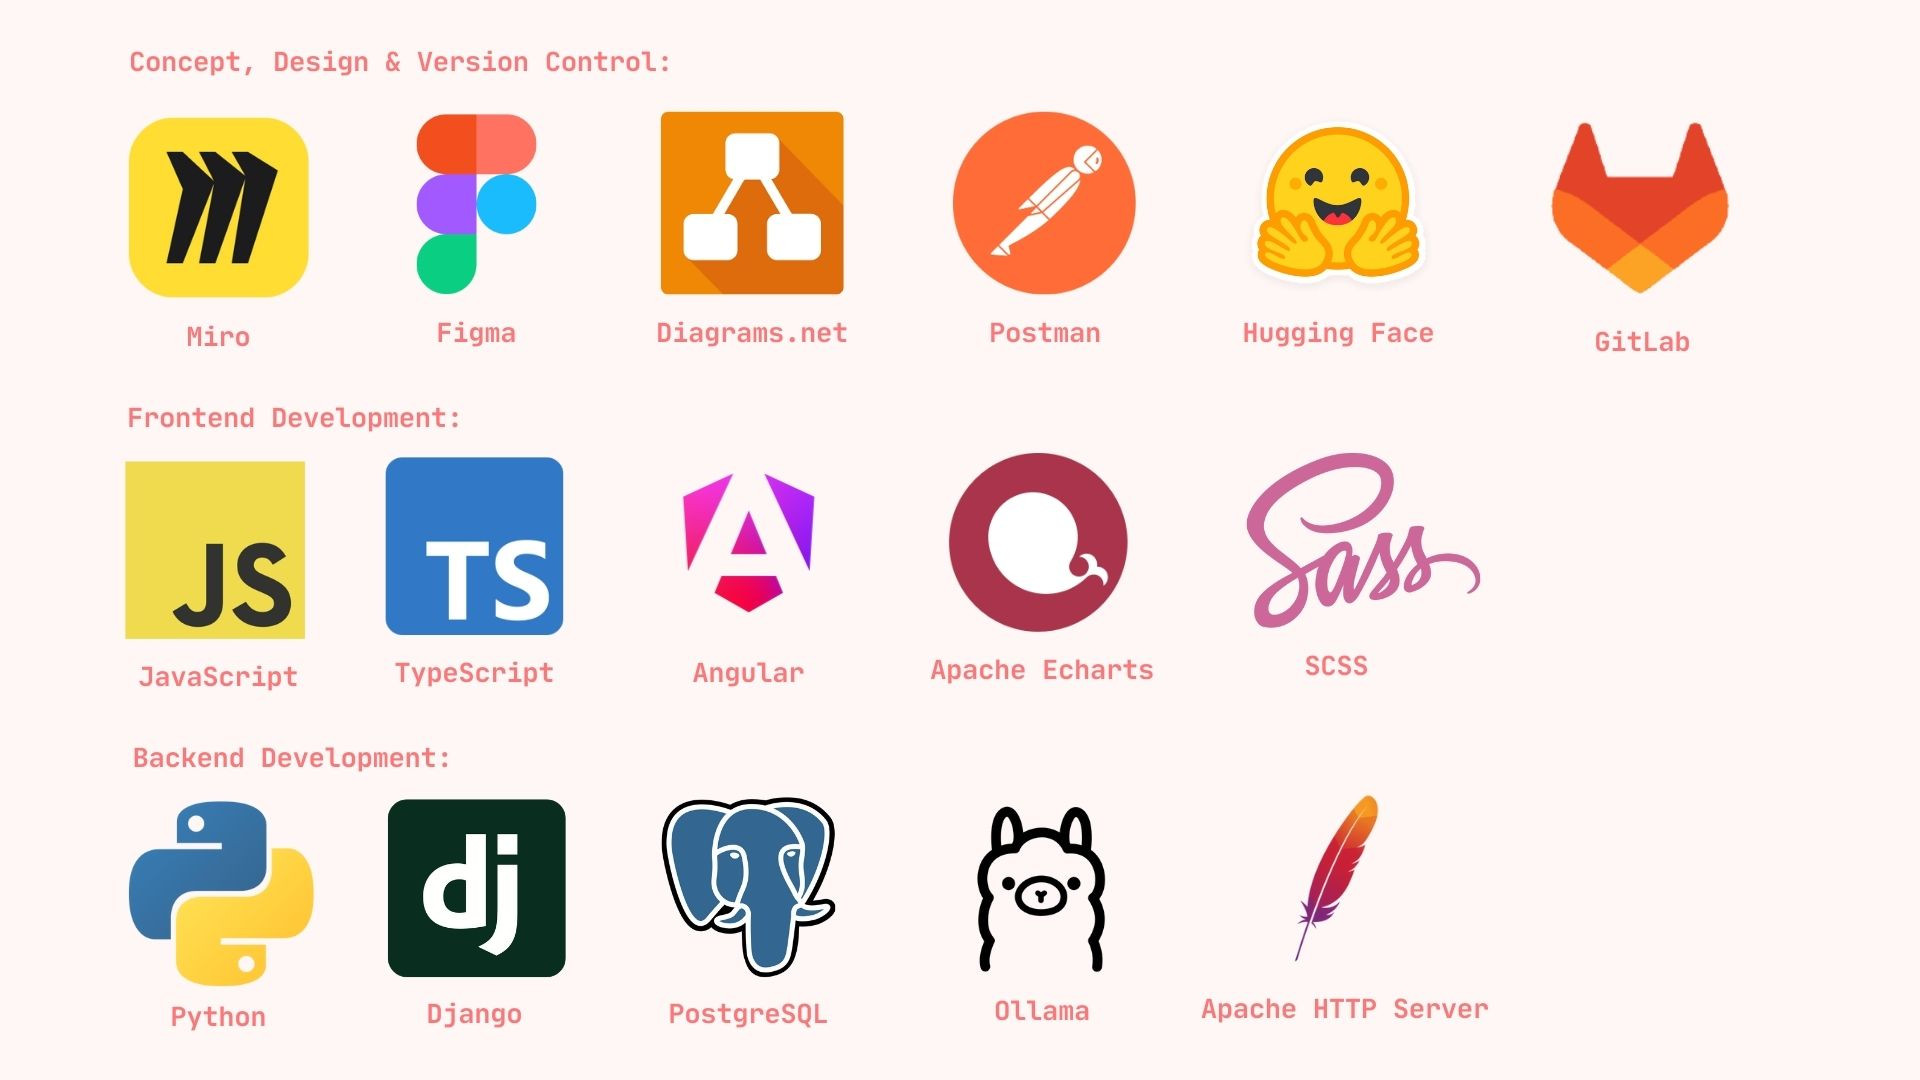
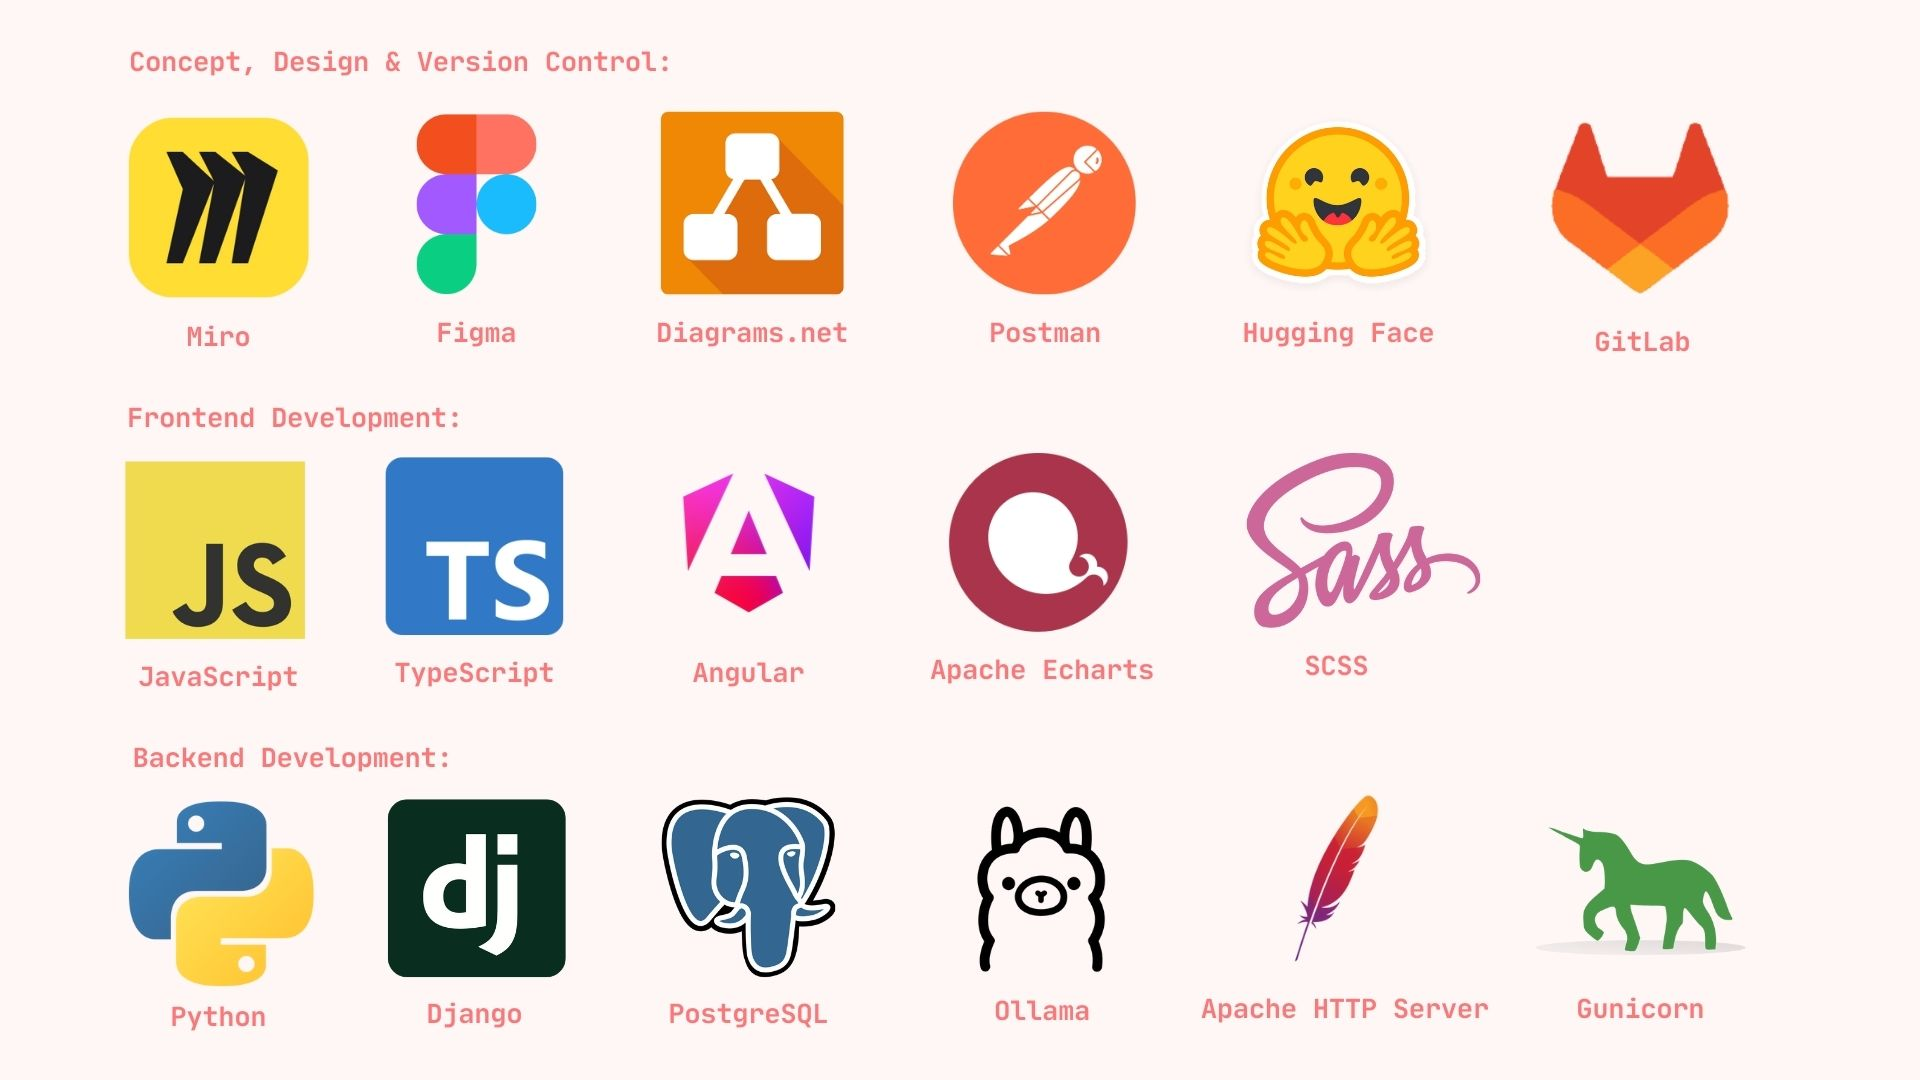
Updated techstack image and text

Changed region(s): [[0.8125, 0.7639, 0.9062, 0.8861], [0.8125, 0.9167, 0.875, 0.9472]]

diff --git a/content/ws25/master/m4-bundesecho/tools.md b/content/ws25/master/m4-bundesecho/tools.md
@@ -7,31 +7,66 @@ draft = false
 {{<image src="techstack.jpg" alt="BundesEcho Tech Stack">}}
 {{<section title="Concept, Design & Version Control">}}
 
-- **[Miro](https://miro.com/)** was used for the initial brainstorming sessions. It allowed the team to collaboratively visualize ideas and document key decisions.
-- **[Figma](https://figma.com/)** was used to create the UI component library, the style guide, and the final high-fidelity design of the BundesEcho user interface.
-- **[Diagrams.net](https://app.diagrams.net/)** was utilized to design the entity-relationship diagram for the database schema.
-- **[Postman](https://www.postman.com/)** served as our primary tool for testing and debugging APIs while the backend server and database were under development.
-- **[Huggingface](https://huggingface.co/)** was used for research and tests of various NLP models for the augmentation of the Q&A archive and RAG.
-- **[GitLab](https://gitlab.com)** served as the central platform for version control, hosting our frontend and backend repositories. We utilized its integrated Kanban board to manage tickets, assign tasks, and track development progress.
+**[Miro](https://miro.com/)**<br>
+Miro was used for the initial brainstorming sessions. It allowed the team to collaboratively visualize ideas and document key decisions.
+
+**[Figma](https://figma.com/)**<br>
+Figma was used to create the UI component library, the style guide, and the final high-fidelity design of the BundesEcho user interface.
+
+**[Diagrams.net](https://app.diagrams.net/)**<br>
+We utilized this tool to design the entity-relationship diagram for the database schema.
+
+**[Postman](https://www.postman.com/)**<br> 
+Postman served as our primary tool for testing and debugging APIs while the backend server and database were under development.
+
+**[Huggingface](https://huggingface.co/)**<br> 
+Huggingface was used for research and tests of various NLP models for the augmentation of the Q&A archive and RAG.
+
+**[GitLab](https://gitlab.com)**<br>
+GitLab served as the central platform for version control, hosting our frontend and backend repositories. We utilized its integrated Kanban board to manage tickets, assign tasks, and track development progress.
 
 {{</section>}}
 
 {{<section title="Frontend Development">}}
 
-- **[JavaScript](https://developer.mozilla.org/en-US/docs/Web/JavaScript)** is the fundamental scripting language used to drive interactivity and logic throughout the frontend application.
-- **[TypeScript](https://typescriptlang.org)** is a typed superset of JavaScript that ensures code reliability. We used its static typing and tooling to maintain a scalable codebase and prevent runtime errors.
-- **[Angular](https://angular.io)** was our chosen component-based framework. It handles the single-page application (SPA) architecture, routing, and state management for a seamless user experience.
-- **[Apache ECharts](https://echarts.apache.org)** is the engine behind our data visualizations. We implemented Sankey diagrams, Gauge charts, Pie charts, network Graphs, and PictorialBars to make complex political data digestible.
-- **[SCSS](https://sass-lang.com)** is an extension of CSS that allowed us to use variables, nesting, and mixins, ensuring a consistent and modular design system across the platform.
+**[JavaScript](https://developer.mozilla.org/en-US/docs/Web/JavaScript)**<br> 
+JavaScript is the fundamental scripting language used to drive interactivity and logic throughout the frontend application.
+
+**[TypeScript](https://typescriptlang.org)**<br>
+TypeScript is a typed superset of JavaScript that ensures code reliability. We used its static typing and tooling to maintain a scalable codebase and prevent runtime errors.
+
+**[Angular](https://angular.io)**<br> 
+Angular was our chosen component-based framework. It handles the single-page application (SPA) architecture, routing, and state management for a seamless user experience.
+
+**[Apache ECharts](https://echarts.apache.org)**<br> 
+ECharts is the engine behind our data visualizations. We implemented Sankey diagrams, Gauge charts, Pie charts, network Graphs, and PictorialBars to make complex political data digestible.
+
+**[SCSS](https://sass-lang.com)**<br> 
+SCSSis an extension of CSS that allowed us to use variables, nesting, and mixins, ensuring a consistent and modular design system across the platform.
 {{</section>}}
 
 {{<section title="Backend Development">}}
 
-- **[Python](https://python.org)** was used for all backend logic, data processing pipelines, and AI integration.
-- **[Django](https://djangoproject.com)** was our web framework of choice. It provides the REST API structure, manages the database, and serves as the bridge between the client and our AI services.
-- **[PostgreSQL with pgvector extension](https://github.com/pgvector/pgvector)** was selected to store and query high-dimensional embeddings for semantic search.
-- **[Ollama](https://ollama.ai)**, hosted on the HTW ML server, served our local LLMs, handling inference for augmentation and summarization.
-- **[Llama 3.1 (70B)](https://ollama.com/library/llama3.1:70b)** state-of-the-art LLM used for data augmentation and RAG summarization. We selected the 70B parameter model for its superior nuance in understanding political context.
-- **[nomic-embed-text-v1.5](https://huggingface.co/nomic-ai/nomic-embed-text-v1.5)** is a high-performance embedding model that converts Q&A text into 768-dimensional vectors. This model was selected for its high accuracy and speed, enabling efficient semantic search and vector-based similarity analysis.
-- **[Apache HTTP Server](https://httpd.apache.org)** is the configured backend server used to host the BundesEcho backend application.
+**[Python](https://python.org)**<br>
+Pythonwas used for all backend logic, data processing pipelines, and AI integration.
+
+**[Django](https://djangoproject.com)**<br> 
+Django was our web framework of choice. It provides the REST API structure, manages the database, and serves as the bridge between the client and our AI services.
+**[PostgreSQL with pgvector extension](https://github.com/pgvector/pgvector)**<br> 
+PostgreSQL combined with the pgvector extension was selected to store and query high-dimensional embeddings for semantic search.
+
+**[Ollama](https://ollama.ai)**<br> 
+Ollama-client, hosted on the HTW ML server, served our local LLMs, handling inference for augmentation and summarization.
+
+**[Llama 3.1 (70B)](https://ollama.com/library/llama3.1:70b)**<br> 
+This is the state-of-the-art LLM used for data augmentation and RAG summarization. We selected the 70B parameter model for its superior nuance in understanding political context.
+
+**[nomic-embed-text-v1.5](https://huggingface.co/nomic-ai/nomic-embed-text-v1.5)**<br> 
+This is a high-performance embedding model that converts Q&A text into 768-dimensional vectors. This model was selected for its high accuracy and speed, enabling efficient semantic search and vector-based similarity analysis.
+
+**[Apache HTTP Server](https://httpd.apache.org)**<br>
+Apache is the configured backend server used to host the BundesEcho backend application.
+
+**[Gunicorn](https://pypi.org/project/gunicorn/)**<br>
+Gunicorn serves as our WSGI application server, managing Django worker processes and handling HTTP requests forwarded by Apache for the application.
 {{</section>}}
